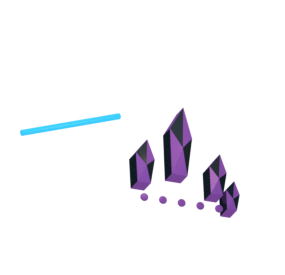
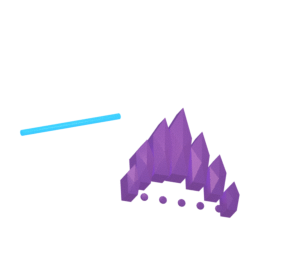
Grow light through full crystal volume

Changed region(s): [[0.4211, 0.3782, 0.8421, 0.7855]]

diff --git a/space-battleship/assets/ui/reactor/b01/generate_reactor_devices.py b/space-battleship/assets/ui/reactor/b01/generate_reactor_devices.py
@@ -667,7 +667,7 @@ def condensation(spec,m):
         cube("band brass trace",1020,y+5,119,2,3,78,m["brass"],1)
     for i,(x,y,rx,ry) in enumerate(((983,565,11,30),(1002,548,12,40),(1021,541,13,47),
                                      (1042,553,11,36),(1061,567,10,28),(971,585,8,21),(1077,586,8,20))):
-        jewel("growth crystal %d"%i,x,y,rx,ry,70,m["violet"] if i%2 else m["violet_lit"],m["violet_glint"])
+        jewel("growth crystal %d"%i,x,y,rx,ry,70,m["violet_lit"],m["violet_glint"])
     for y in (476,522,568):
         cube("growth chamber laminated glass rail",1020,y,107,2,2,85,m["silver"],1)
         for x in (974,1066):
@@ -721,7 +721,7 @@ def run():
             ob.hide_render=ob not in work_objects
             for i,mat in enumerate(slots): ob.material_slots[i].material=mat
             for i,mat in enumerate(slots):
-                if mat == mats["violet_glint"]: ob.material_slots[i].material=mats["black"]
+                if mat == mats["violet_glint"]: ob.material_slots[i].material=mats["violet_lit"]
         bpy.context.scene.render.filepath=str(BUILD / ("r6-"+name+"-work-full.png"))
         bpy.ops.render.render(write_still=True)
         if name == "defence":
